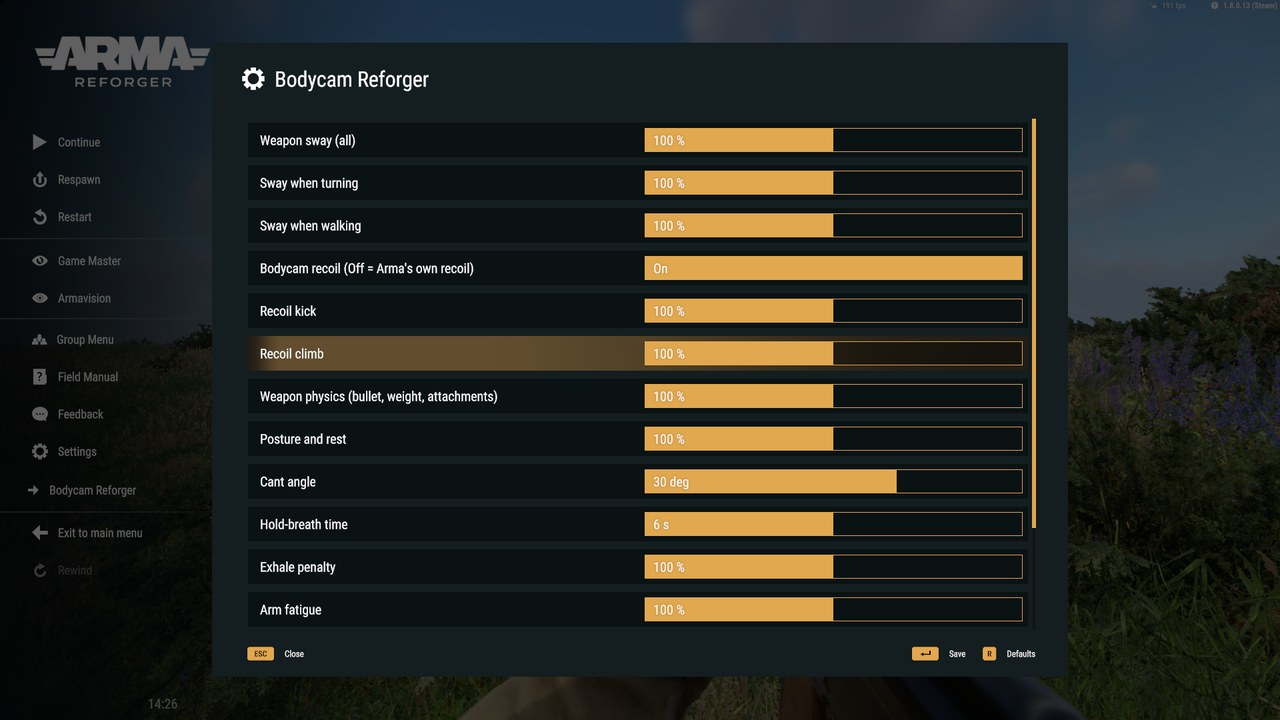
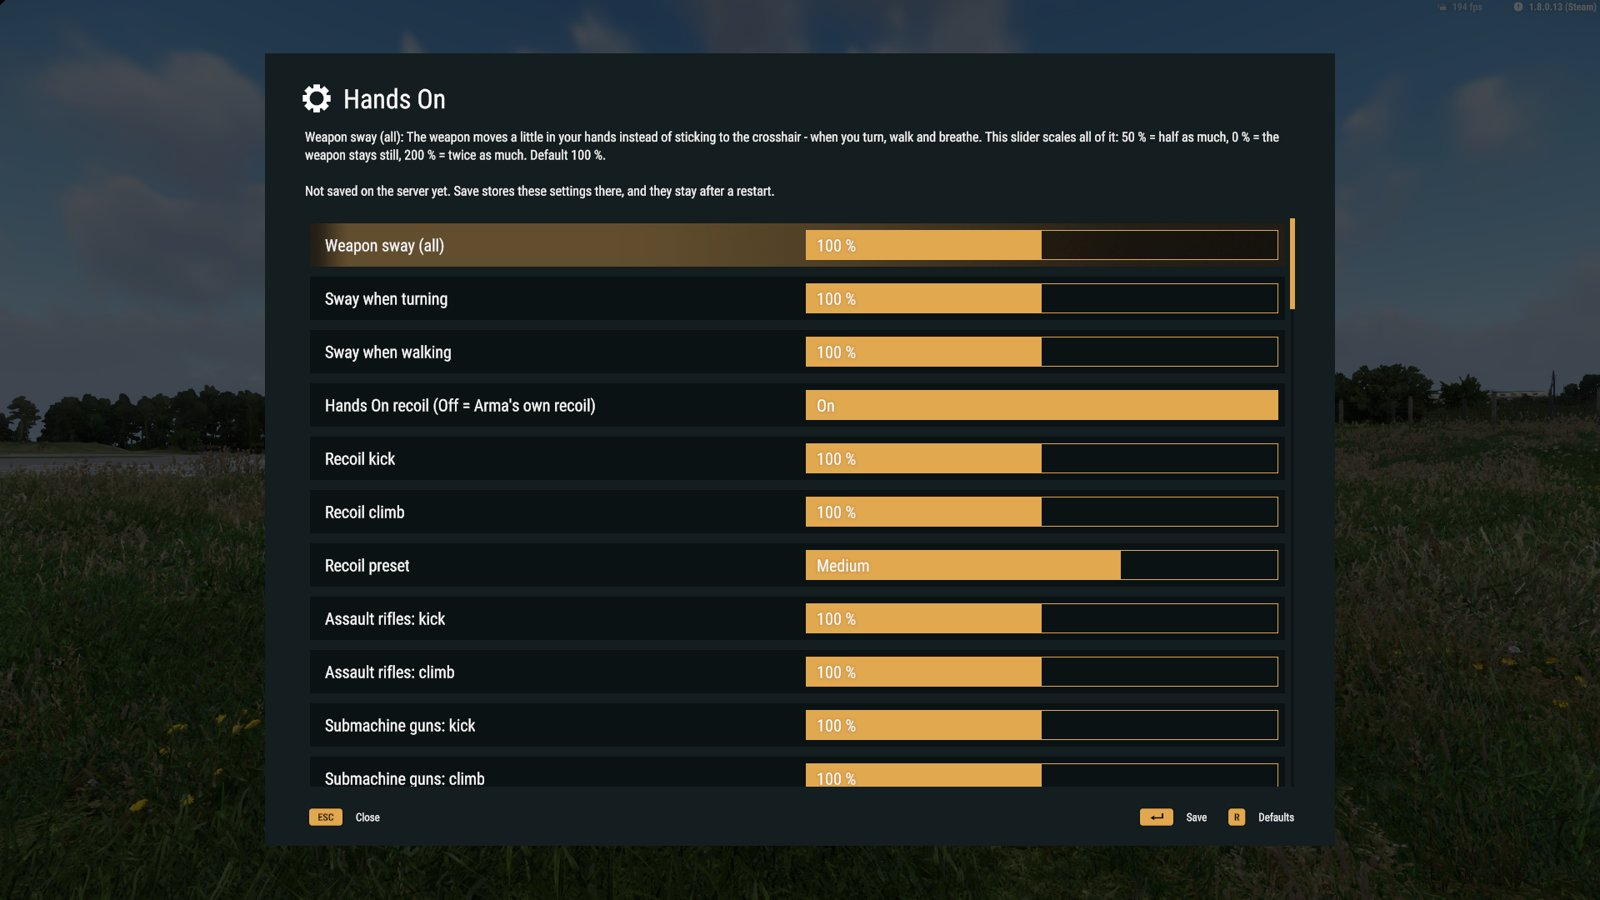
docs: README for Hands On 1.9.6 - new name, current features and pictures, optional deadzone while aiming

diff --git a/README.md b/README.md
@@ -1,124 +1,118 @@
-# Bodycam Reforger
+# Hands On
 
-![Bodycam Reforger](images/preview.png)
+![Hands On](images/preview.png)
 
-**Bodycam-style weapon handling for Arma Reforger multiplayer.** Your weapon is carried, not glued to the mouse: every
-small arm sways, kicks and settles like a real weapon in real hands. Camera, movement, controls, menus and all vehicles
-stay Arma's.
+**Weapon handling for Arma Reforger multiplayer** (formerly Bodycam Reforger). Your rifle is carried, not glued to the
+mouse: it sways with your movement, kicks with Arma's own recoil, gets heavier the longer you aim and settles when you
+rest it. Camera, movement, menus, rocket launchers and vehicles stay Arma's.
 
-**[Get it on the Arma Reforger Workshop](https://reforger.armaplatform.com/workshop/F26C9CD1DDF4D30E-BodycamReforger)**
-– in game: Workshop → search "Bodycam Reforger" → subscribe. Servers list it like any other mod (mod ID
-`F26C9CD1DDF4D30E`); players download it automatically. Version **1.4.4** – the keyboard and mouse keys work again
-(in 1.4.1–1.4.3 only the controller keys did), and in blind fire round a corner and leaning right both hands stay on
-the weapon.
+**[Get it on the Arma Reforger Workshop](https://reforger.armaplatform.com/workshop/F26C9CD1DDF4D30E)** – in game:
+Workshop → search "Hands On" → subscribe. Servers list it like any other mod (mod ID `F26C9CD1DDF4D30E`, the same item
+as Bodycam Reforger); players download it automatically. Version **1.9.6** – new: an optional deadzone while
+aiming, off by default. All changes: [Workshop change log](https://reforger.armaplatform.com/workshop/F26C9CD1DDF4D30E/changelog).
 
-## Weapon handling
+![Weapon in hand](images/hands.jpg)
 
-- **Sway** – turning, walking, strafing and leaning move the weapon in your hands; it lowers on fast turns. Separate
-  behaviour from the hip and aimed.
-- **Recoil per weapon class** – rifles, machine guns, DMRs, pistols, SMGs, shotguns and bolt-action rifles – with a spray
-  pattern: each shot moves your real aim, and it settles back after the burst. Launchers keep Arma's recoil.
-- **Weapon physics** – the kick follows the bullet and the weapon's total weight with every attachment and the magazine:
-  a scope, launcher or suppressor makes it steadier, also on Workshop weapons. Suppressors, muzzle brakes, compensators
-  and foregrips take some of the kick.
-- **Posture** – crouched or prone the weapon sways and kicks less; rested on cover or on the bipod it stays almost still,
-  so scoped bursts stay on target.
-- Iron sights and red dots stay usable; magnified optics keep Arma's view. A small camera kick per shot.
+## Sway – the weapon moves with you
+
+- Turning, walking, strafing and leaning move the weapon in your hands; on fast turns it lags and lowers.
+- From the hip the same soft sway as aimed, no invisible wall.
+- Stop turning and it swings a little past, then settles exactly where you stopped.
+- Crouched and prone it calms down; rested on cover or a bipod it stays almost still.
+
+## Recoil – Arma's own, your server's settings
+
+- Every weapon keeps its own Arma recoil – per weapon, stance and aim, Workshop weapons included.
+- On top, admins scale kick and climb – for all weapons and per class (rifles, SMGs, MGs, marksman rifles, pistols,
+  shotguns, bolt-action rifles). Medium = Arma's recoil.
+- Attachments you mount make the weapon heavier, so it kicks a little less (at most 20 %). The magazine and the parts a
+  weapon comes with don't count.
+
+## Arm stamina – aiming makes your arms tired
+
+- Aiming uses up arm stamina: fastest standing, slower crouched, prone, rested on cover, slowest lying on a rested bipod.
+  Only a bipod that really rests on something counts.
+- Under 60 % the weapon swings with your breath – less crouched, prone or rested. Off the sights your arms recover,
+  twice as fast in low or high ready.
+- **Hold breath** – `Shift` (controller: hold `A`) while aiming: after 0.6 s the aim stands still, as long as your arms
+  allow (6 s fresh, 2.4 s tired) or until you fire.
+- A small arm stamina bar bottom left (not your sprint stamina), hidden when full. Admins can turn it off.
+
+## Attachments – pros and cons
+
+- Brakes, compensators and suppressors keep their own recoil effect, at most 20 % less.
+- Angled foregrips steady the aim a little; stocks slow arm fatigue.
+- A suppressor makes the weapon front-heavy and tires the arms faster; an under-barrel launcher or a bipod makes it
+  sway more.
 
 ## Poses – every player sees them
 
 | Pose | Keyboard | Controller | |
 |---|---|---|---|
-| **High ready** | `Ctrl + Mouse 5` | `RB + R3` | muzzle up in front of the chest, both hands on the weapon; the trigger brings it down first |
-| **Low ready** | `Ctrl + Mouse 4` | `RB + L3` | Arma's own lowered weapon, also while sprinting |
-| **Blind fire** | `Ctrl + X` | `RB + Y` | weapon over the head, the muzzle lifts clear of a parapet edge; leaning (`Q` / `E`, controller: hold `A` + left stick) takes it round the left / right corner |
-| **Blind fire round a corner** | `Shift + Mouse 5` / `Shift + Mouse 4` | `RB + D-pad left` / `RB + D-pad right` | weapon held out across the chest, muzzle out to the left / right with its tip in view, body behind the wall; both hands stay on the weapon when you turn or strafe fast; beside a wall it stays back and holds fire |
-| **Point shooting** | `Ctrl + Middle mouse` | `RB + A` | canted at the hip for quick close shots – to the right, with the left cant key to the left |
-| **Canted carry** | `Alt + Middle mouse` | `RB + View` | the weapon tilted far to the left (with the right cant key to the right), low in view, to walk with |
+| **High ready** | `Ctrl + Mouse 5` | `RB + R3` | muzzle up in front of the chest |
+| **Low ready** | `Ctrl + Mouse 4` | `RB + L3` | Arma's own lowered weapon |
+| **Blind fire over the head** | `Ctrl + X` | `RB + Y` | lean to fire round the left or right corner |
+| **Blind fire round the corner** | `Shift + Mouse 5` | `RB + D-pad left` | across the body round the left corner |
+| **Point shooting** | `Ctrl + Middle mouse` | `RB + A` | canted at the hip for quick close shots |
+| **Canted carry** | `Alt + Middle mouse` | `RB + View` | tilted low in view, to walk with |
+| **Canting** | `Alt + Mouse 5` / `Alt + Mouse 4` | `RB + X` / `RB + B` | tilts the weapon 30° left / right |
 
-**Poses and the cant combine.** Lean in any pose, also with a part lean (`Ctrl + Q` / `Ctrl + E`) – poses keep their
-place; blind fire + lean takes the weapon round the corner; cant + lean the same way reaches further. The cant keys pick
-the side of point shooting and the canted carry (started while canted, they take that side) and end high / low ready and
-blind fire. The same key ends a pose, aiming down the sights ends any pose. Admins can switch blind fire off for the
-whole server.
+Combine them: lean in any pose, cant + lean the same way reaches further out; the cant keys pick the side for point
+shooting and the canted carry. Aiming ends any pose. The support hand stays on its grip.
 
-## Body
+## Controls
 
-![Canting](images/canting.jpg)
+![Controls](images/controls.jpg)
 
-- **Canting** – `Alt + Mouse 5` / `Alt + Mouse 4` (controller `RB + X` / `RB + B`) tilts the weapon 30° to the left / right (the same key again levels it).
-  Weapon and view move out to that side; canted and leaning the same way you reach 9 cm further round the corner, from
-  the hip and aimed. Every player sees your cant.
-- **Hold breath** – hold `Shift` (controller: hold `A`) while aiming: steadier for about 6 seconds (shorter when out of breath), then a short,
-  shaky exhale.
-- **Arm fatigue** – long aiming makes the weapon unsteady and it sinks; much later when crouched, prone or rested.
-- **Tremor and hits** – out of breath or with a wounded arm your hands tremble; a hit jolts your aim off target; raised
-  to the eye, the weapon settles into the shoulder.
+Every key has a keyboard and a controller default (`RB` is the modifier). Each player rebinds everything in
+**Settings → Controls → "Hands On - Keys"** – no admin rights needed.
 
-## Controls – keyboard and controller
+**Deadzone** (optional, off by default) – below the keys each player can turn it on. Aimed through iron sights,
+red dots and holo sights, small mouse moves then move the weapon in the picture and only a bigger one turns the view:
+up to 2° sideways and 0.6° up and down by default, both adjustable. Only your own view changes – the bullets still go
+where the sight points, and other players see nothing different. Scopes and the hip are unchanged.
 
-Every key has a keyboard and a controller default. On a controller (Arma's standard controller layout) `RB` is the
-modifier, like Arma's own zoom (`RB + D-pad up / down`); sprint, radio, aiming and firing stay free. Each player rebinds
-every key in **Settings → Controls → "Bodycam Reforger"** (keyboard and controller column) – no admin rights needed.
-The admin settings page works with a controller too. Every key is checked with real key presses before a release.
+## Server settings – admins only
 
-## Server settings for admins
+![Server settings](images/admin_settings.jpg)
 
-![Admin settings](images/admin_settings.jpg)
+Pause menu → **Hands On**. Only admins see it (the host, `#login` or the server's admin list).
 
-Pause menu → **Bodycam Reforger** (right under Settings, also with a controller):
-
-| Setting | Range |
-|---|---|
-| Weapon sway (all), when turning, when walking | 0–200 % |
-| **Bodycam recoil** – Off = Arma's complete original recoil (sway and the rest stay) | On / Off |
-| Recoil kick, recoil climb, weapon physics, posture and rest | 0–200 % |
-| Cant angle | 0–45° |
-| **Blind fire allowed** – Off = no blind fire on the server | On / Off |
-| Hold-breath time, exhale, arm fatigue, tremor, hit reaction, settling | 0–200 % |
-
-0 % switches a feature off. Only the host and logged-in server admins (`#login`) can change the values – not a voted-in
-session admin. The server keeps
-them in its profile folder (`bcr/settings.txt`, also editable there) and sends them to every player – also to players who
-join later. Everyone else sees them read-only.
+- Every setting explains what it does and its default. 0 % switches a feature off.
+- Recoil preset Light / Medium / Heavy (Medium = Arma's recoil, Light 30 % less, Heavy 30 % more), or kick and climb per
+  weapon class. "Hands On recoil" Off = Arma's plain recoil.
+- Sway, weapon physics, posture and rest, cant angle, hold-breath time, arm fatigue, hit reaction and more.
+- Blind fire can be switched off; every pose can be moved for everyone.
+- Saved on the server, kept after a restart, sent to every player – late joiners included.
 
 ## Multiplayer
 
-- Hit registration stays Arma's: bullets leave exactly where your barrel points, on the server too. Tested on a dedicated
-  server with two players: every shot of a burst leaves the same way on the server as on the shooter's PC – with our
-  recoil, with Arma's and in blind fire.
-- Poses and canting go to every player, also to players joining later. The sway runs only on the shooter's PC; the
-  server keeps the settings and the pose of each soldier.
+- Hit registration stays Arma's: bullets leave where your barrel points, also in blind fire. Tested on a dedicated
+  server with two players: server and client agree on every shot.
+- Poses and canting reach every player. The sway runs only on the shooter's PC.
 
 ## Compatibility
 
-- Works for weapons built on Arma's weapon base classes, including many Workshop weapons and their attachments. Weapon
-  packs with their own base classes keep their own handling.
-- Other weapon sway, recoil or pose mods stack with this one – not recommended together.
-- Vehicles, turrets and mounted weapons are not touched.
+- Every weapon built on Arma's weapon base classes: tested with 2,534 Workshop weapons, 9 in 10 get its handling. Their
+  attachments get the same pros and cons as Arma's.
+- Under-barrel launchers get it all; rocket launchers keep Arma's handling, lock-on included.
+- Other sway, recoil or pose mods stack with it – not recommended together.
 
 ## Deutsch
 
-Waffenhandling im Bodycam-Stil für Arma Reforger Multiplayer: Schwanken, Rückstoß pro Waffenklasse (abhängig von Geschoss
-und Gesamtgewicht mit allen Anbauteilen; Schalldämpfer, Mündungsbremse, Kompensator und Griff nehmen Rückstoß), Haltung,
-aufgelegt und Zweibein fast ruhig. Posen, für alle Spieler sichtbar: High Ready (`Strg + Maus 5`), Low Ready
-(`Strg + Maus 4`), Blind Fire (`Strg + X`, mit `Q` / `E` um die Ecke), Point Shooting (`Strg + mittlere Maustaste`),
-Blind Fire um die Ecke ohne Lehnen (`Shift + Maus 5 / 4`) und schräge Trageweise (`Alt + mittlere Maustaste`). Posen und
-Kanten sind kombinierbar: Lehnen in jeder Pose, die Kanten-Tasten wählen die Seite von Point Shooting und schräger
-Trageweise. Controller-Unterstützung – jede Taste hat eine Controller-Belegung (RB als Umschalter, z. B. `RB + X` /
-`RB + B` Kanten, `RB + Y` Blind Fire, `A` halten beim Zielen = Atem anhalten); jeder Spieler belegt alle Tasten selbst um
-unter Einstellungen → Steuerung → „Bodycam Reforger“. Neu in 1.4.4: die Tastatur- und Maus-Tasten gehen wieder (in
-1.4.1–1.4.3 ging nur der Controller); Blind Fire um die Ecke hält die Waffe weiter raus mit der Mündungsspitze im Bild,
-und dort wie beim Lehnen rechts bleiben beide Hände an der Waffe.
-Kanten (`Alt + Maus 5 / 4`, mit Lehnen zur selben Seite 9 cm weiter um die Ecke), Atem anhalten (`Shift`), Arm-Ermüdung,
-Zittern und Treffer-Reaktion. Admins stellen im Pausemenü unter „Bodycam Reforger“ jede Wirkung für alle Spieler ein;
-„Bodycam recoil“ schaltet auf Armas originalen Rückstoß zurück, „Blind fire allowed“ schaltet Blind Fire ab. Die
-Trefferabfrage bleibt Armas – die Kugeln gehen genau dahin, wo dein Lauf zeigt, auch auf dem Server und im Blind Fire.
-Mod im Spiel unter **Workshop → „Bodycam Reforger“**.
+Waffenhandling für Arma Reforger Multiplayer (früher Bodycam Reforger): Die Waffe schwankt mit deiner Bewegung, schlägt
+mit Armas eigenem Rückstoß aus, wird beim langen Zielen schwer (Arm-Ausdauer, Atem anhalten mit `Shift`) und kommt
+aufgelegt oder auf dem Zweibein zur Ruhe. Anbauteile haben Vor- und Nachteile. Posen, für alle Spieler sichtbar: High
+Ready, Low Ready, Blind Fire über den Kopf und um die Ecke, Point Shooting, schräge Trageweise und Kanten – kombinierbar
+mit Lehnen. Jede Taste hat eine Tastatur- und Controller-Belegung; jeder Spieler belegt sie selbst um unter Einstellungen
+→ Steuerung → „Hands On - Keys“; dort schaltet jeder Spieler auch die optionale Deadzone ein (standardmäßig aus:
+kleine Mausbewegungen bewegen beim Zielen erst die Waffe im Bild, dann das Bild). Admins stellen im Pausemenü unter „Hands On“ alles für alle Spieler ein (Rückstoß-Preset
+Leicht / Mittel / Schwer, Mittel = Armas Rückstoß). Die Trefferabfrage bleibt Armas – die Kugeln gehen genau dahin, wo
+dein Lauf zeigt, auch auf dem Server. Mod im Spiel unter **Workshop → „Hands On“**.
 
 ## License
 
-© 2026 VAST-ON-GIT-OPENSOURCE. The mod "Bodycam Reforger", this page, its texts and images: **all rights reserved** –
-no reuploads, edits or redistribution.
+© 2026 VAST-ON-GIT-OPENSOURCE. The mod "Hands On" (formerly "Bodycam Reforger"), this page, its texts and images:
+**all rights reserved** – no reuploads, edits or redistribution.
 
 Not affiliated with Reissad Studio (BODYCAM) or Bohemia Interactive (Arma Reforger). Contains no BODYCAM files or content.
